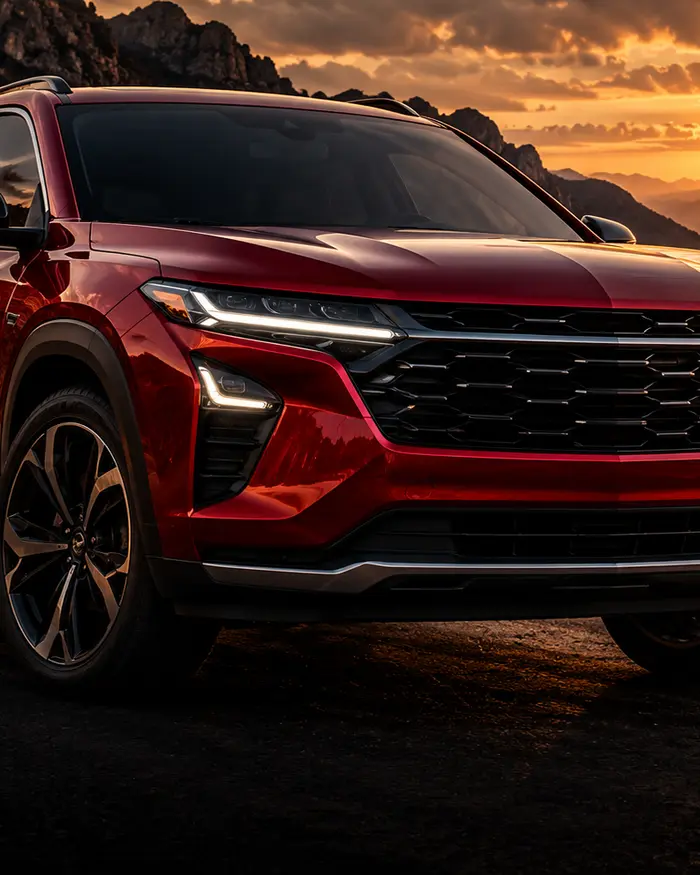
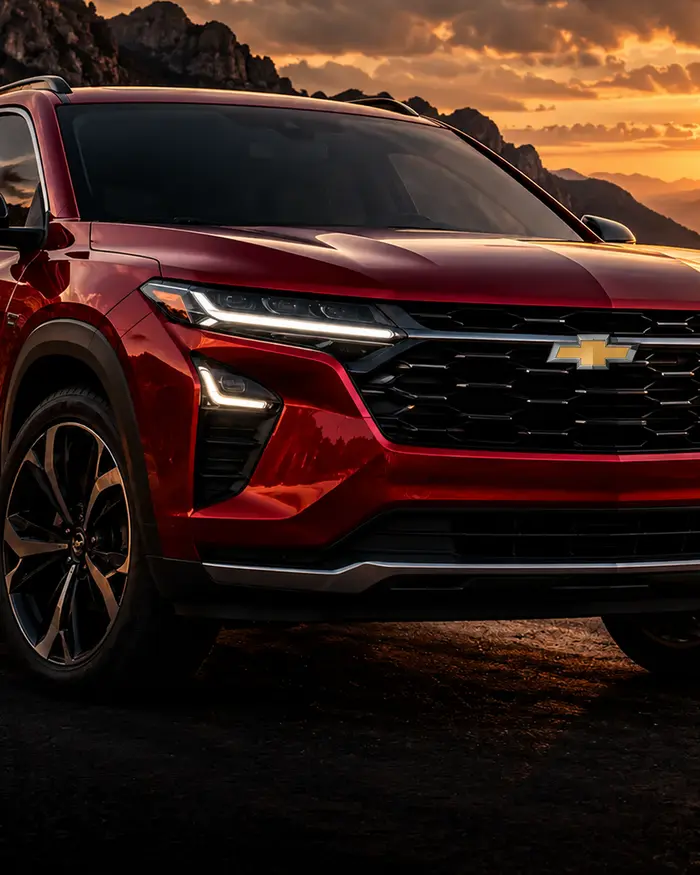
Use accurate Chevrolet bowtie artwork

diff --git a/src/components/brand-card.tsx b/src/components/brand-card.tsx
@@ -17,6 +17,8 @@ export function BrandCard({
     logo ??
     (brand.slug === "citroen"
       ? "/images/brands/citroen-2022.svg"
+      : brand.slug === "chevrolet"
+        ? "/images/brands/chevrolet.png"
       : `/images/brands/${brand.slug}.svg`);
 
   return (
